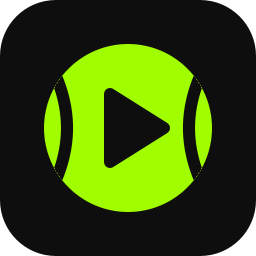
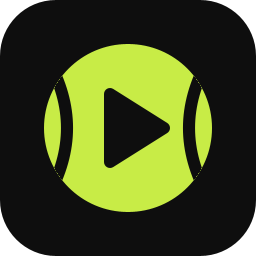
site prepared; release preparation

Changed region(s): [[0.1562, 0.1562, 0.8438, 0.8438]]

diff --git a/site/public/download/index.html b/site/public/download/index.html
@@ -45,7 +45,7 @@
     <h2>System needs</h2>
     <table class="spec">
       <tr><th scope="row">Operating system</th><td>Windows 10 or Windows 11, 64-bit</td></tr>
-      <tr><th scope="row">Disk space</th><td>About 700 MB for the app, and space for your exported videos</td></tr>
+      <tr><th scope="row">Disk space</th><td>Under 1 GB for the app, and more for your videos</td></tr>
       <tr><th scope="row">Video files</th><td>MP4, MOV, MKV, AVI, M4V, and WMV</td></tr>
       <tr><th scope="row">Faster export</th><td>Optional: a graphics card with a video encoder from NVIDIA, AMD, or Intel. Without it, the app uses the software encoder. It is slower, but it works on all PCs.</td></tr>
       <tr><th scope="row">Administrator rights</th><td>Not necessary. The app installs only for your Windows account.</td></tr>
@@ -56,13 +56,13 @@
     <ol class="install">
       <li>Download <code>BananaShot-win-Setup.exe</code> and open it.</li>
       <li>
-        Windows can show the message "Windows protected your PC". The reason: the setup file has no code signature now.
+        Windows can show the message "Windows protected your PC". The setup file is signed, but BananaShot is new, and Windows trusts a new app only after many downloads.
         Click <strong>More info</strong>, then click <strong>Run anyway</strong>.
       </li>
       <li>The setup installs the app and starts it. You can find BananaShot in the Start menu.</li>
     </ol>
     <div class="note">
-      <p><strong>Smart App Control.</strong> If Smart App Control is on, Windows can block the app, and "Run anyway" is not available. A signed version of the app is planned. Until then, the app cannot start on these PCs.</p>
+      <p><strong>Smart App Control.</strong> The app is signed, so it also works when Smart App Control is on.</p>
     </div>
 
     <h2>Updates</h2>

diff --git a/site/public/faq/index.html b/site/public/faq/index.html
@@ -101,8 +101,8 @@
     <details id="smartscreen">
       <summary>Why does Windows show "Windows protected your PC"?</summary>
       <div>
-        <p>The setup file has no code signature now. Thus, Windows does not know the publisher. Click <strong>More info</strong>, then click <strong>Run anyway</strong>. A signed version is planned.</p>
-        <p>If Smart App Control is on, Windows can block the app, and "Run anyway" is not available. Until the signed version is available, the app cannot start on these PCs.</p>
+        <p>BananaShot is new, and Windows trusts a new app only after many downloads. The setup file is signed, so Windows shows the publisher. Click <strong>More info</strong>, then click <strong>Run anyway</strong>.</p>
+        <p>The app is signed, so it also works when Smart App Control is on.</p>
       </div>
     </details>
 
@@ -155,7 +155,7 @@
       <summary>How do I report a problem or suggest a feature?</summary>
       <div>
         <p>Use the <strong>Feedback</strong> button in the sidebar of the app. Select a topic, write your message, and click <strong>Send</strong>. You can attach the log files. To get a reply, give your email address. Error messages also have a <strong>Report this problem</strong> button.</p>
-        <p>The address for email is in More &rarr; Contact of the app.</p>
+        <p>You can also write an email to <span data-email="moc.liamg|nivteel">leetvin [at] gmail.com</span>.</p>
       </div>
     </details>
   </div>
@@ -183,5 +183,6 @@
   window.addEventListener("hashchange", openFromHash);
   openFromHash();
 </script>
+<script src="/assets/email.js"></script>
 </body>
 </html>

diff --git a/site/public/privacy/index.html b/site/public/privacy/index.html
@@ -50,7 +50,7 @@
 
     <!-- ====== Usage analytics: notice version 1. Increase the version when a new type of data is collected. ====== -->
     <h2 id="analytics">Usage analytics</h2>
-    <p class="meta">Notice version 1. Effective from: (date of the release).</p>
+    <p class="meta">Notice version 1. Effective from: 2026-10-06.</p>
 
     <p>BananaShot can send anonymous usage counts. The counts tell us which parts of the app people use, how long sessions are, and how well exports work. The analytics are off until you select "Enable analytics". If you select "No thanks" or close the question, the app sends nothing.</p>
 
@@ -135,7 +135,7 @@
 
     <!-- ====== Contact and rights ====== -->
     <h2 id="contact">Contact and your rights</h2>
-    <p>The author of BananaShot, Dmitrii Litvin, is responsible for the data on this page. The contact address is in More &rarr; Contact of the app.</p>
+    <p>The author of BananaShot, Dmitrii Litvin, is responsible for the data on this page. The contact address is <span data-email="moc.liamg|nivteel">leetvin [at] gmail.com</span>.</p>
     <p>You can ask for a copy of your data, a correction, or a deletion. You can also make a complaint to the data protection authority of your country.</p>
   </div>
 </main>
@@ -153,5 +153,6 @@
     </nav>
   </div>
 </footer>
+<script src="/assets/email.js"></script>
 </body>
 </html>

diff --git a/site/public/assets/email.js b/site/public/assets/email.js
@@ -1,0 +1,11 @@
+// Make the contact links from reversed parts, so that the page source has
+// no plain email address for spam bots. Without JavaScript, the text
+// "name [at] domain" stays.
+document.querySelectorAll("[data-email]").forEach(function (el) {
+  var parts = el.getAttribute("data-email").split("|");
+  var address = parts[1].split("").reverse().join("") + "@" + parts[0].split("").reverse().join("");
+  var link = document.createElement("a");
+  link.href = "mailto:" + address;
+  link.textContent = address;
+  el.replaceWith(link);
+});

diff --git a/site/public/changelog/index.html b/site/public/changelog/index.html
@@ -34,7 +34,7 @@
     <!-- Add a new version above the previous one. Write the release date in the format YYYY-MM-DD. -->
     <section class="release" id="v1.0.0">
       <h2>1.0.0</h2>
-      <p class="meta">Release date: (date of the release)</p>
+      <p class="meta">Release date: coming soon</p>
       <p>The first public version.</p>
       <ul>
         <li>Projects: import a match video and continue later from the list of recent projects.</li>

diff --git a/distribution/windows/AppIconRenderer.java b/distribution/windows/AppIconRenderer.java
@@ -1,5 +1,5 @@
 import com.github.weisj.jsvg.SVGDocument;
-import com.github.weisj.jsvg.attributes.ViewBox;
+import com.github.weisj.jsvg.view.ViewBox;
 import com.github.weisj.jsvg.parser.SVGLoader;
 
 import javax.imageio.ImageIO;

diff --git a/docs/site/b-10-tasks.md b/docs/site/b-10-tasks.md
@@ -57,48 +57,60 @@ Decided on 2026-10-06:
 | 23 | The site gets a new look. The mockups are in `design/site-restyle/` (3 options: A Studio, B Console, C Sport). Option A (Studio) is the main direction. Changes to A: the page is not near-black, because a background effect shows through matte glass parts (three effects for review: glass, court, and aurora); the hero has the text and the download buttons on the left and a smaller screenshot on the right; the "Local" and "No AI" sections each have a soft band of their own color, and each item is its own tile (the idea of option C, but softer). The accent of the site is the app accent `#C8EC46` (`Palette.DEFAULT_ACCENT`), not the old lime `#A1FE00`. The page does not use the near-black `#0E0E0E` as its background, and the eyebrow labels are not faint green. The demos keep the app colors. The text of the page does not change. |
 | 24 | The home page shows two example videos that the author made with the app, after the note of the author and before the download section (moved there by the author; first it was after "How it works"): a doubles full match (`MIBRymxQM0A`) and singles highlights (`uQiJRa9Juh4`), both on the YouTube channel of the author. Each video is a link with a still image. The link opens the video on YouTube in a new tab. The page has no YouTube player: the embedded player showed error 153 (no referrer) in the local test, and a plain link loads nothing from YouTube on the site. The sections of the home page have class names (`section-how`, `section-examples`, `section-features`, `section-local`, `section-noai`, `section-author`, `section-cta`), so that the styles do not depend on the order of the sections. |
 | 25 | The author accepts option A (Studio) with the aurora background as the new look of the site (2026-10-06). It goes into `site/public/assets/site.css` and applies to all pages. The glass and court backgrounds, the background switch, and options B and C stay only in `design/site-restyle/`. The site logo (`logo.svg`), the demos, and `theme-color` (`#151a21`) use the app accent. The demos keep the other app colors (`.ui-demo` in `demos.css`). Checked with `wrangler dev`: all pages load, and no page scrolls sideways at 375 px. |
+
+Decided on 2026-10-06 (contact address):
+
+| # | Decision |
+|---|---|
+| 26 | The first release uses the personal Gmail of the author (`leetvin@gmail.com`) as the contact address, in the app and on the site. The address on the domain (decision 6, Cloudflare Email Routing) needs more setup. It is B-40, the first post-release item. This changes decision 6 for the first release. |
+| 27 | The download page gives an upper limit for the disk space, not an exact number: "Under 1 GB for the app, and more for your videos". The exact size changes between releases, and the user needs only an approximate number. The measurement is in Q4. |
+| 28 | The download page keeps "Windows 10 or Windows 11, 64-bit". The app is not tested on Windows 10, but its parts support it. If users report problems that occur only on Windows 10, add tests or other measures then. This closes Q4. |
+| 29 | The effective date of the privacy notice is 6 October 2026, the planned day of the site deploy, not the release date. The site goes live before the release, so a placeholder date must not be on the live page. The section "This site" applies from the deploy. No released app sends analytics before the first release, so the earlier date causes no problem. |
+| 30 | The site texts tell that the app is signed (B-22). The "Run anyway" steps stay, because an OV signature does not give SmartScreen reputation at once. The Smart App Control notes now say that the signed app works with it. The changelog shows "Release date: coming soon" for 1.0.0 until the release; write the date (YYYY-MM-DD) on the day of the release. T2, T3, and T6 are done (2026-10-06). |
 | 26 | Each page has a "Home" link as the first item of the header menu and of the footer menu, so that the way back to the home page is clear. The current page has a light pill in the header menu. On a phone, the five header items fit in one line down to 360 px. |
 
 ## Open questions
 
 Write each new decision in "Decisions" at once.
 
-- Q1: the local part of the contact address, for example `hello@` or
-  `support@`.
-- Q2: screenshots of the app for the home page. Now the top of the home
-  page has a still copy of the Points tab (decision 19).
-- Q3: the author must read two new sections of the privacy page: "This site"
-  (Cloudflare Web Analytics) and "Contact and your rights". They are not in
-  the texts of B-8 and B-9.
-- Q4: check the facts on the download page: Windows 10 support, and the disk
-  space (now "about 700 MB"). Measure the installed size in B-26.
+- Q1: closed by decision 26. The local part of the domain address is a
+  question of B-40 (post-release).
+- Q2: closed by decision 19 (2026-10-06). The top of the home page has a
+  still copy of the Points tab in place of a screenshot.
+- Q3: closed (2026-10-06). The author read and approved the sections "This
+  site" (Cloudflare Web Analytics) and "Contact and your rights" of the
+  privacy page.
+- Q4: closed by decisions 27 (disk space) and 28 (Windows 10).
+  Measured on 2026-10-06 (signed dry run, version 1.0.0, author's
+  computer): `%LocalAppData%\BananaShot` is 539 MB. `current` (the app) is
+  375 MB, and `packages` (the full `.nupkg`, kept for updates) is 159 MB.
+  An update also needs space for the downloaded setup and a second app
+  folder for a short time (estimate: about 1 GB free in total). Windows 10
+  is not tested.
 - Q5: closed by decision 22.
 - Q6: closed. The author approved the text of the examples section.
 - Q7: closed. The still images of the videos are in `site/public/assets/frames/`: `video-doubles.webp` (the YouTube thumbnail, 1280 x 720) and `video-singles.webp` (the YouTube thumbnail without its black bars, 480 x 270; YouTube has no larger one). The site loads nothing from YouTube.
 - Q8: closed by decision 24. The page has no YouTube player; the videos are plain links. The still images are on the site (Q7).
-- Q9: the app icon (`src/main/resources/icons/app-icon.svg`, the `.ico`
-  file) is still the old lime `#A1FE00`. Thus `favicon-32.png` and
-  `icon-256.png` of the site stay lime too, but `logo.svg` now has the app
-  accent. Change the app icon to the accent, or keep the lime icon?
+- Q9: closed. The app icon has the app accent `#C8EC46` now (`app-icon.svg`, `bananashot.ico`, the PNG files in `design/app-icon/`, and the site icons `favicon-32.png` and `icon-256.png`).
 
 ## Tasks
 
 | Task | Scope | Depends on | Status |
 |---|---|---|---|
 | T1 | Skeleton: `site/`, shared CSS, header, footer, logo, favicon | — | done |
-| T2 | Home page | T1, Q2 | in-progress |
-| T3 | Download page: system needs, the SmartScreen steps, the download button | T1, Q4 | in-progress |
+| T2 | Home page | T1 | done |
+| T3 | Download page: system needs, the SmartScreen steps, the download button | T1 | done |
 | T4 | FAQ page | T1 | done |
 | T5 | Changelog page | T1 | done |
-| T6 | Privacy page: analytics, feedback, version check, site analytics. The docs notice files point to it | T1, Q3 | in-progress |
-| T7 | Contact address: Email Routing (the author), `CONTACT_EMAIL` in the app, the address in the notices | Q1 | open |
-| T8 | Deployment: wrangler config, custom domain, Web Analytics, `ANALYTICS_PRIVACY_URL` | T1–T6 | open |
+| T6 | Privacy page: analytics, feedback, version check, site analytics. The docs notice files point to it | T1 | done |
+| T7 | Contact address: the personal Gmail in the app and on the site (decision 26). The domain address is B-40 | — | done |
+| T8 | Deployment: wrangler config, custom domain, Web Analytics, `ANALYTICS_PRIVACY_URL` | T1–T6 | in-progress |
 | T9 | Release checks: links, phone width, steps in `release-checklist.md` | T8 | open |
 
 Status values: `open`, `in-progress`, `done`.
 
-- T6: write the effective date on the page at the first release with
-  analytics. B-9 T7 stays open until the page is live.
+- T6: the effective date is on the page (decision 29). B-9 T7 stays open
+  until the page is live.
 - T1 to T6 (2026-10-03): all pages are in `site/public/`. Checked with
   `wrangler dev`: each page returns 200, `/privacy` redirects to
   `/privacy/`, an unknown path returns the 404 page, and no page scrolls
@@ -106,8 +118,21 @@ Status values: `open`, `in-progress`, `done`.
 - T6: the analytics and feedback sentences are the same as in the texts of
   B-9 and B-8. The version check is now a separate section. The "In short" box and the sections "This site" and "Contact and
   your rights" are new (Q3).
-- T7: when the address exists, put it in "Contact and your rights" of the
-  privacy page and in "Help and contact" of the FAQ.
+- T7 (2026-10-06): the privacy page ("Contact and your rights") and the
+  FAQ ("Help and contact") show `leetvin@gmail.com` with a `mailto:` link.
+  The page source has no plain address: `assets/email.js` makes the link
+  from the reversed parts in `data-email`. Without JavaScript, the page
+  shows "leetvin [at] gmail.com".
+  The app already uses this address (`CONTACT_EMAIL`). B-40 changes all
+  three places to the domain address.
+- T8 (2026-10-06): the site is deployed with `wrangler deploy` (wrangler
+  4.129.0, version ID `f66989a1-4ceb-41e7-8829-4af985ab46f3`) on the
+  custom domain `banana-shot-editor.app`. Checked: each page returns 200,
+  `/privacy` redirects (307) to `/privacy/`, an unknown path returns 404,
+  the privacy page shows "Effective from: 2026-10-06", and the browser
+  console has no errors. Open: Web Analytics (no beacon on the pages),
+  `www.banana-shot-editor.app` (no DNS record), and `ANALYTICS_PRIVACY_URL`.
+  The download button returns 404 until the first release is published.
 - T8: change `ANALYTICS_PRIVACY_URL` only when the page is live. Add the
   Web Analytics script to each page, or turn on the automatic setup in the
   Cloudflare dashboard. Redirect `www.banana-shot-editor.app` to the domain

diff --git a/docs/backlog.md b/docs/backlog.md
@@ -28,9 +28,10 @@ Do these items before the first public release.
 - Decided on 2026-10-03: an in-app feedback form sends the report to a
   Cloudflare Worker, and the Worker sends it to the author with a Telegram
   bot. `docs/feedback/b-8-tasks.md` has the decisions and the tasks.
-- Status 2026-10-03: the code of T1 to T5 is done. The Worker and the bot
-  work. Open: set the GitHub variable `FEEDBACK_ENDPOINT`, and do the manual
-  check of T5 with an installed dry-run build. The site text waits for B-10.
+- Status 2026-10-06: the code of T1 to T5 is done. The Worker and the bot
+  work. The GitHub variable `FEEDBACK_ENDPOINT` is set (2026-10-03). The
+  site text is live (B-10). Open: the manual check of T5 with an installed
+  dry-run build (B-26).
 - Replies inside the app are B-33 (post-release).
 
 ### B-9 Analytics
@@ -49,8 +50,8 @@ Do these items before the first public release.
 - `docs/site/b-10-tasks.md` has the decisions and the tasks. Decided on
   2026-10-03: the domain is `banana-shot-editor.app` (on Cloudflare), and
   the first version is the full site.
-- Status 2026-10-03: the pages are in `site/public/` (T1 to T6). Not
-  deployed yet.
+- Status 2026-10-06: the pages in `site/public/` are done (T1 to T7). Not
+  deployed yet (T8).
 - Reminder: the site must have the privacy notice page before the first
   release. The page (`site/public/privacy/index.html`) has the analytics
   notice (B-9) and the feedback notice (B-8). There is no temporary page
@@ -59,8 +60,8 @@ Do these items before the first public release.
     a temporary value. When the page is live, change it to
     `https://banana-shot-editor.app/privacy/` (B-10 decision 5).
     The consent dialog and the Privacy page of each release open this URL.
-  - Write the effective date in the analytics notice when the page goes
-    live.
+  - The effective date of the privacy notice is 2026-10-06 (B-10
+    decision 29).
   - The B-9 task T7 stays open until the page is live.
 
 ### B-24 Velopack installer
@@ -305,9 +306,10 @@ Do these items before the first public release.
   - JNA extracts an unsigned `jnidispatch.dll` at run time. On the tester
     computer, Smart App Control did not block it (probably because the file
     has reputation). Keep this in the install check.
-  - Change the Smart App Control notes on the site (`download` and `faq`
-    pages, B-10) after the first signed release. An OV signature does not
-    give SmartScreen reputation at once, so keep the "Run anyway" steps.
+  - Done (2026-10-06, B-10 decision 30): the Smart App Control notes on the
+    site (`download` and `faq` pages) say that the signed app works with it.
+    An OV signature does not give SmartScreen reputation at once, so the
+    "Run anyway" steps stay.
     Update (2026-10-06): SmartScreen did not show a warning for the signed
     setup of the dry run on the author's computer. Check this on a second
     computer before you remove the "Run anyway" steps.
@@ -323,6 +325,27 @@ Do these items before the first public release.
 ## Post-release
 
 Do these items after the first public release.
+
+### B-40 Contact address on the domain
+
+- The first release uses the personal Gmail of the author
+  (`leetvin@gmail.com`) as the contact address (B-10 decision 26). Change
+  it to an address on `banana-shot-editor.app`.
+- Select the local part of the address, for example `hello@` or
+  `support@`.
+- Set up Cloudflare Email Routing: forward the address to the Gmail. The
+  author replies from Gmail. To reply from the domain address, set up
+  "Send mail as" in Gmail with an SMTP service. Without it, the replies come
+  from the Gmail address.
+- Change the address in three places: `CONTACT_EMAIL` in
+  `SwingApplicationFactory`, "Contact and your rights" of
+  `site/public/privacy/index.html`, and "Help and contact" of
+  `site/public/faq/index.html`. On the site, the address is reversed in
+  the `data-email` attribute (`assets/email.js`).
+- Released apps keep the Gmail address until the users update. Thus, keep
+  the Gmail address in use.
+- Done when: an email to the new address gets to the Gmail, and the app and
+  the site show the new address.
 
 ### B-33 Replies to feedback inside the app
 

diff --git a/docs/feedback/b-8-tasks.md b/docs/feedback/b-8-tasks.md
@@ -185,8 +185,8 @@ The texts that tell the user what the app sends and why.
 - The analytics consent does not cover the feedback. A report goes only
   when the user clicks "Send".
 - Reply address: the form and the Contact page show the address of
-  decision 7. When the domain exists, a change of `CONTACT_EMAIL` in
-  `SwingApplicationFactory` replaces the address.
+  decision 7. A change of `CONTACT_EMAIL` in `SwingApplicationFactory`
+  replaces the address. The domain address is B-40 (post-release).
 - Tests: `PrivacyPageTest`, `FeedbackPanelTest` (the reply address).
 
 ### T5 Build, deployment, and release checks
@@ -194,9 +194,9 @@ The texts that tell the user what the app sends and why.
 The steps that make the feature work in a release build.
 
 - Status: in-progress. The scripts, the workflow, the README, and the
-  checklist are done. The Worker is deployed (2026-10-03). Open: the
-  GitHub variable `FEEDBACK_ENDPOINT` and the manual check from an
-  installed dry-run build (the author does them).
+  checklist are done. The Worker is deployed (2026-10-03). The GitHub
+  variable `FEEDBACK_ENDPOINT` is set (2026-10-03). Open: the manual check
+  from an installed dry-run build (the author does it, B-26).
 - Deployed (2026-10-03): the Worker `bananashot-feedback` at
   `https://bananashot-feedback.banana-shot-feedback.workers.dev/v1/feedback`,
   with D1 `bananashot-feedback`, the three secrets, and the daily cron

diff --git a/docs/release-checklist.md b/docs/release-checklist.md
@@ -176,6 +176,9 @@ If a check fails, fix the cause and start again at step 5.
         `https://github.com/zipper2110/banana-shot/releases/download/v<version>/BananaShot-win-Setup.exe`.
       - `notes` (optional): a short text about the release. The app shows it
         as plain text.
+- [ ] Site changelog (`site/public/changelog/index.html`): write the release
+      date (YYYY-MM-DD) of the new version, and deploy the site. For the
+      first release, replace "coming soon" of 1.0.0.
 - [ ] Set `<revision>` in `pom.xml` to the next version with `-SNAPSHOT`.
 - [ ] "Update and restart" (B-26, check 4). Skip this for the first release.
       Install the previous release, and start it. GitHub can need about 5

diff --git a/docs/analytics/privacy-notice.md b/docs/analytics/privacy-notice.md
@@ -20,8 +20,8 @@ analytics" section of the site page. Increase the notice version if the new
 key collects a new type of data. The app then asks the user again.
 
 - Notice version: 1
-- Effective date: the date of the first release with analytics. Write it on
-  the site page ("Effective from") at the release.
+- Effective date: 6 October 2026 (B-10 decision 29). It is on the site page
+  ("Effective from"). When the notice version changes, write the new date.
 
 The "Version check and updates" section of the same page tells about the
 request to GitHub (`docs/licensing/build-expiry-spec.md`). That request is

diff --git a/distribution/windows/README.md b/distribution/windows/README.md
@@ -81,6 +81,10 @@ After you change the SVG, run this command to generate the ICO again:
 .\distribution\windows\New-AppIcon.ps1 -PngDirectory design\app-icon
 ```
 
+The site uses two of these PNG files. Copy them after you generate the icon
+again: `design/app-icon/bananashot-32.png` to `site/public/favicon-32.png`, and
+`design/app-icon/bananashot-256.png` to `site/public/assets/icon-256.png`.
+
 ## Release requirements
 
 Use [docs/release-checklist.md](../../docs/release-checklist.md) for each
